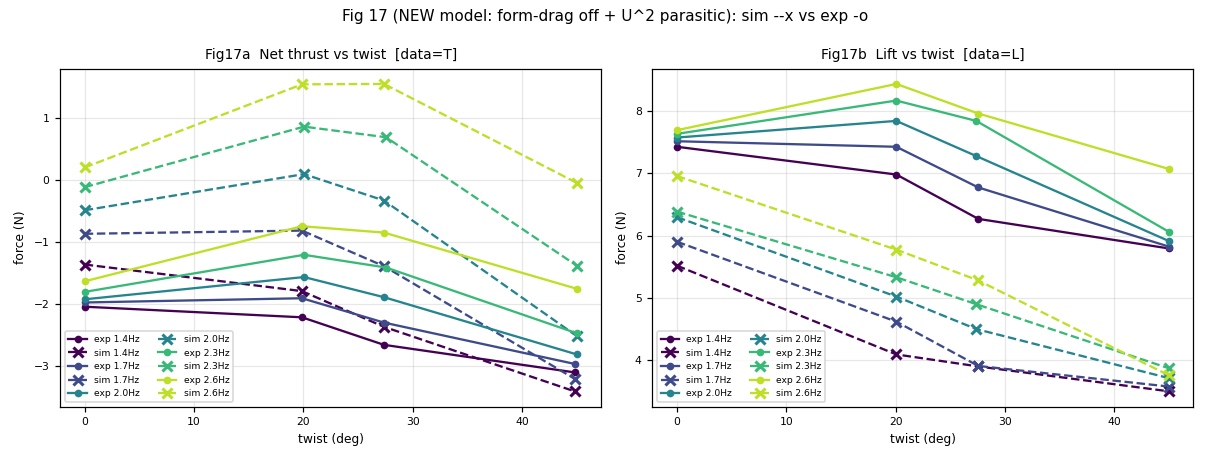
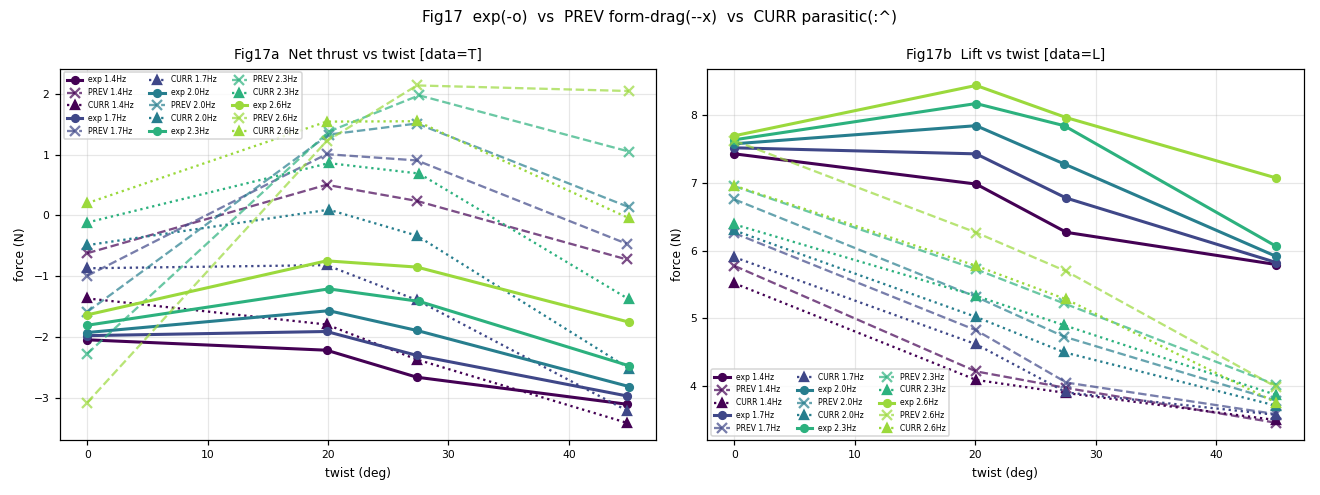
docs: per-condition Fig17/18 comparison figures + re-plot tooling
Paper-figure (MDPI Drones 2025 9/8/535) reproduction artifacts comparing PREV (cross-flow
form drag) vs CURR (U^2 rig parasitic) vs experiment:
- 17 per-condition PNGs: Fig17 x5 freq (twist sweep), Fig18ab x3 wind (freq sweep),
  Fig18cd x9 wind-freq (twist sweep). Each has thrust|lift panels, 3 clean lines.
- repro_fig17/18.png: overlaid all-condition comparison.
- _v2_repro_plot.py: standalone re-plotter (reads repro_data.json, no GPU -> instant
  layout/style edits without re-running the model).
- repro_data.json: cached exp/PREV/CURR per condition (force-added; *.json gitignored).

Key result shown: the parasitic flips net-thrust vs freq from reversed (PREV) to correct
(CURR); lift unchanged between versions (drag does not affect lift). c/d panels classified
by data sign (data.md c/d lift/thrust labels are swapped vs captions).

diff --git a/platform/_v2_repro_plot.py b/platform/_v2_repro_plot.py
@@ -1,0 +1,42 @@
+"""Standalone RE-PLOTTER (no GPU): reads docs/repro_data.json (exp/PREV/CURR per condition, produced by the
+model-run script) and draws the per-condition comparison figures. Edit the LAYOUT section freely and re-run
+instantly -- no model evaluation. Data keys: "<fig>|<sub>|<ident>" where ident = freq (Fig17), wind (Fig18ab),
+or "(wind, freq)" (Fig18cd); each value = {x, exp, prev, curr, kind('L'/'T')}.
+"""
+import json, os, numpy as np
+import matplotlib; matplotlib.use('Agg'); import matplotlib.pyplot as plt
+DOCS = os.path.join(os.path.dirname(os.path.abspath(__file__)), 'docs')
+R = json.load(open(os.path.join(DOCS, 'repro_data.json')))
+
+def draw(ax, d, xlab):
+    kn = 'Lift' if d['kind'] == 'L' else 'Net thrust'
+    nan = lambda L: [v if v is not None else np.nan for v in L]
+    ax.plot(d['x'], d['exp'], '-o', color='k', ms=5, lw=2, label='exp')
+    ax.plot(d['x'], nan(d['prev']), '--x', color='tab:red', ms=7, mew=2, label='PREV form-drag')
+    ax.plot(d['x'], nan(d['curr']), ':^', color='tab:blue', ms=6, mew=2, label='CURR parasitic')
+    ax.set_title(f"{kn} vs {xlab.split()[0]}", fontsize=10)
+    ax.set_xlabel(xlab, fontsize=9); ax.set_ylabel('force (N)', fontsize=9)
+    ax.legend(fontsize=8); ax.grid(alpha=0.3)
+
+def twofig(kT, kL, xlab, title, fname):
+    if kT not in R or kL not in R:
+        print(f"  MISSING {kT} or {kL} -> skip {fname}"); return
+    fig, ax = plt.subplots(1, 2, figsize=(11, 4.3))
+    draw(ax[0], R[kT], xlab); draw(ax[1], R[kL], xlab)
+    fig.suptitle(title, fontsize=11); fig.tight_layout()
+    fig.savefig(os.path.join(DOCS, fname), dpi=110); plt.close(fig); print("  saved", fname)
+
+# ----------------------- LAYOUT (edit freely; re-run = instant) -----------------------
+if __name__ == '__main__':
+    print("available keys:", sorted(R.keys()))
+    for f in [1.4, 1.7, 2.0, 2.3, 2.6]:                                   # Fig17 per frequency
+        twofig(f"17|a|{f}", f"17|b|{f}", 'twist (deg)',
+               f"Fig17  8m/s AoA5  {f}Hz", f"repro_fig17_{int(round(f*10))}.png")
+    for U in [6.0, 8.0, 10.0]:                                            # Fig18 a/b per wind
+        twofig(f"18|a|{U}", f"18|b|{U}", 'freq (Hz)',
+               f"Fig18ab  {U:.0f}m/s AoA5 twist0", f"repro_fig18ab_u{int(U)}.png")
+    for U in [6.0, 8.0, 10.0]:                                            # Fig18 c/d per (wind, freq)
+        for f in [2.0, 2.3, 2.6]:
+            twofig(f"18|c|({U}, {f})", f"18|d|({U}, {f})", 'twist (deg)',
+                   f"Fig18cd  {U:.0f}m/s AoA5  {f}Hz", f"repro_fig18cd_u{int(U)}_f{int(round(f*10))}.png")
+    print("DONE (pure matplotlib, no GPU)")